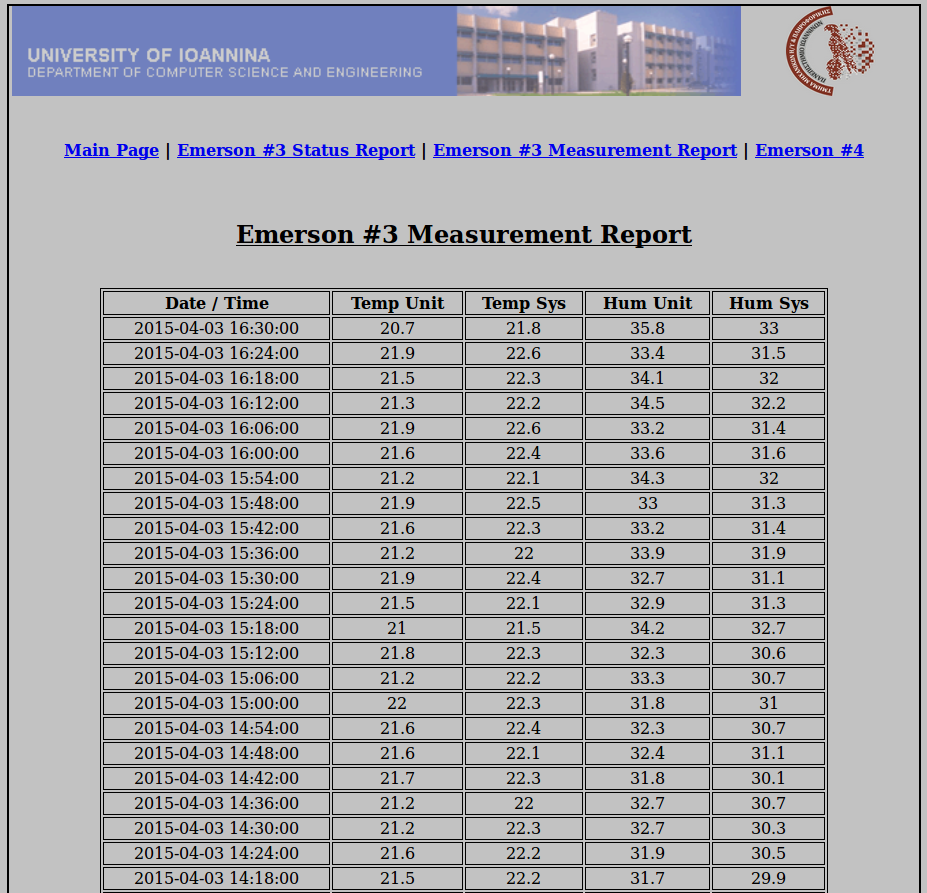
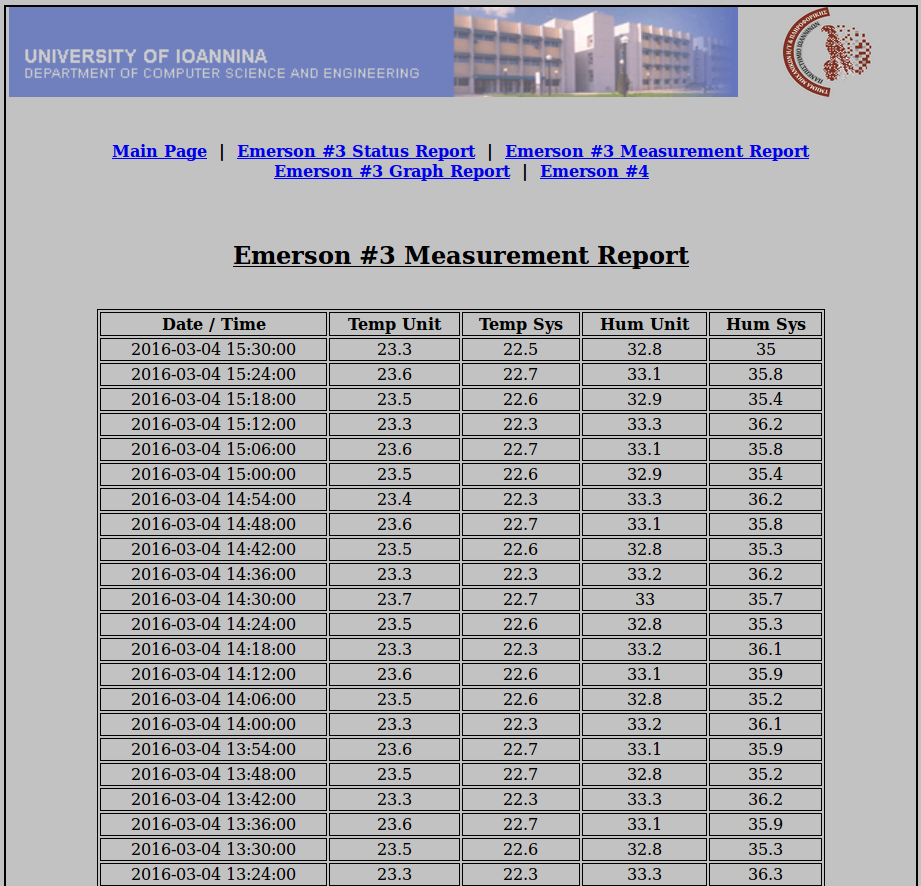
Various minor changes before merging v2/master

diff --git a/README.md b/README.md
@@ -19,26 +19,29 @@ Screenshots
 <br>_Measurement Report_<br>
 ![Measurement Report](./images/emerson_measurement_report.png)
 
+<br>_Graph Report_<br>
+![Graph Report](./images/emerson_graph_report.png)
+
 <br>_Sample graph (1 Hour Temperature Log - Emerson #3)_<br>
 ![Sample Graph](./images/demo_temp_1hour.png)
 
-<br>_Sample graph (1 Hour Temperature Log 2 - Emerson #4)_<br>
-![Sample Graph](./images/demo_temp_1hour_2.png)
-
 <br>_Sample graph (1 Hour Temperature Log - Emerson #3 & #4)_<br>
 ![Sample Graph](./images/demo_temp_1hour_dual.png)
-
-<br>_Sample graph (1 Day Humidity Log - Emerson #4)_<br>
-![Sample Graph](./images/demo_hum_1day.png)
-
-<br>_Sample graph (1 Week Humidity Log - Emerson #4)_<br>
-![Sample Graph](./images/demo_hum_1week.png)
 
 <br>_Sample graph (1 Month Humidity Log - Emerson #4)_<br>
 ![Sample Graph](./images/demo_hum_4week.png)
 
 <br>_Email Alert_<br>
 ![Email Alert example](./images/aeolus_email_alert.png)
+
+<br>_Website setup has finished message_<br>
+![Website setup has finished message](./images/aeolus_setup.png)
+
+<br>_Website setup has finished with errors message_<br>
+![Website setup has finished with errors message](./images/aeolus_setup_errors.png)
+
+<br>Contents of aeolus.log after installation<br>
+![Contents of aeolus.log after installation](./images/aeolus_log.png)
 
 
 W3C valid website
